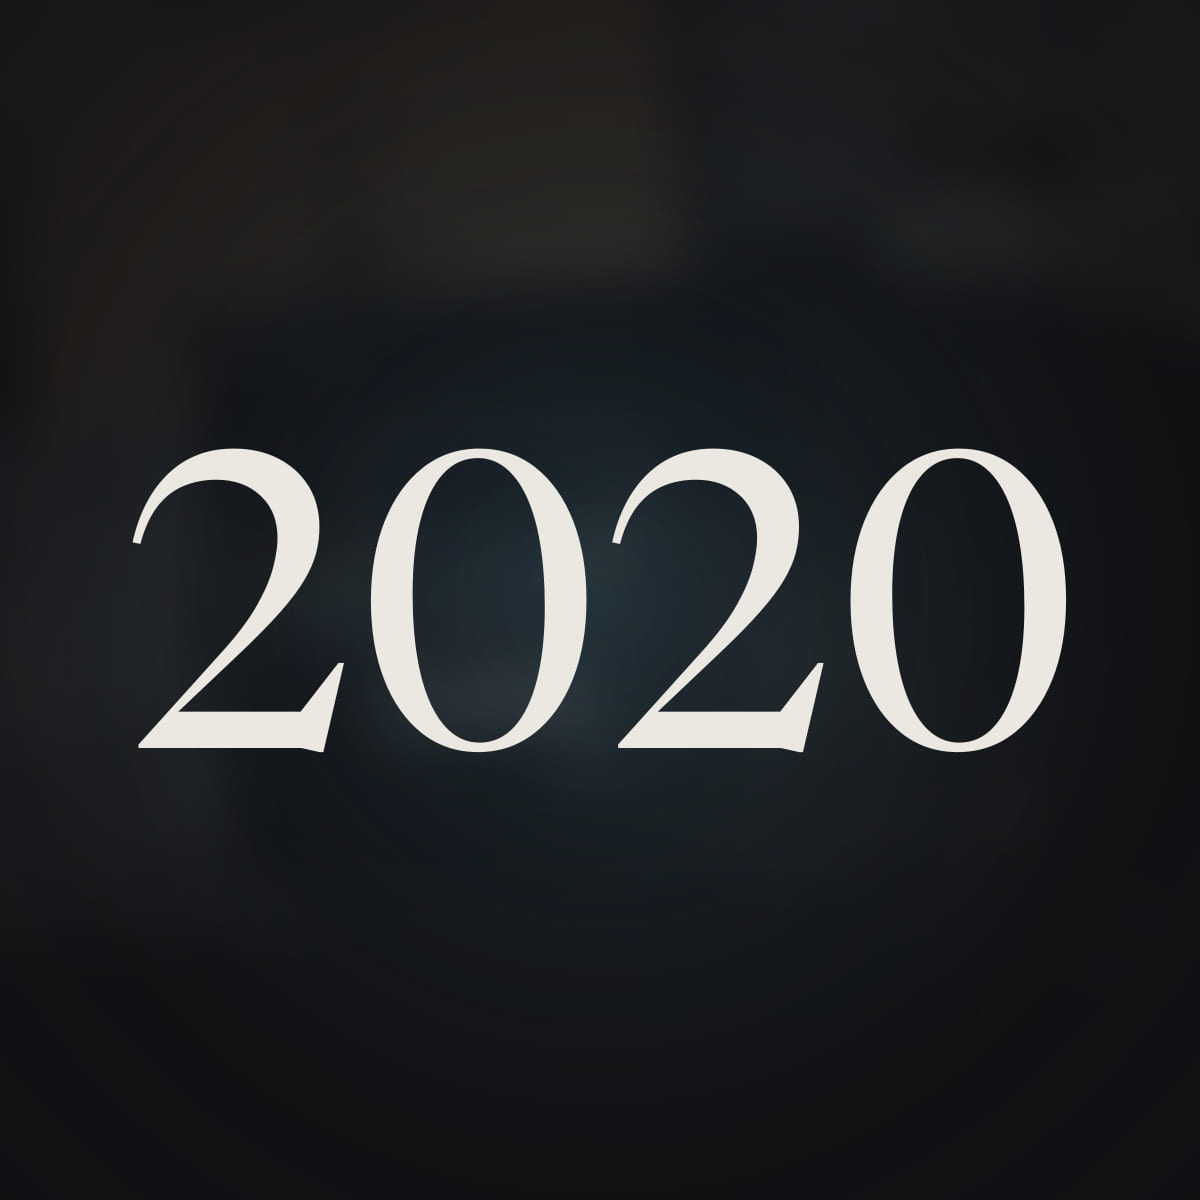
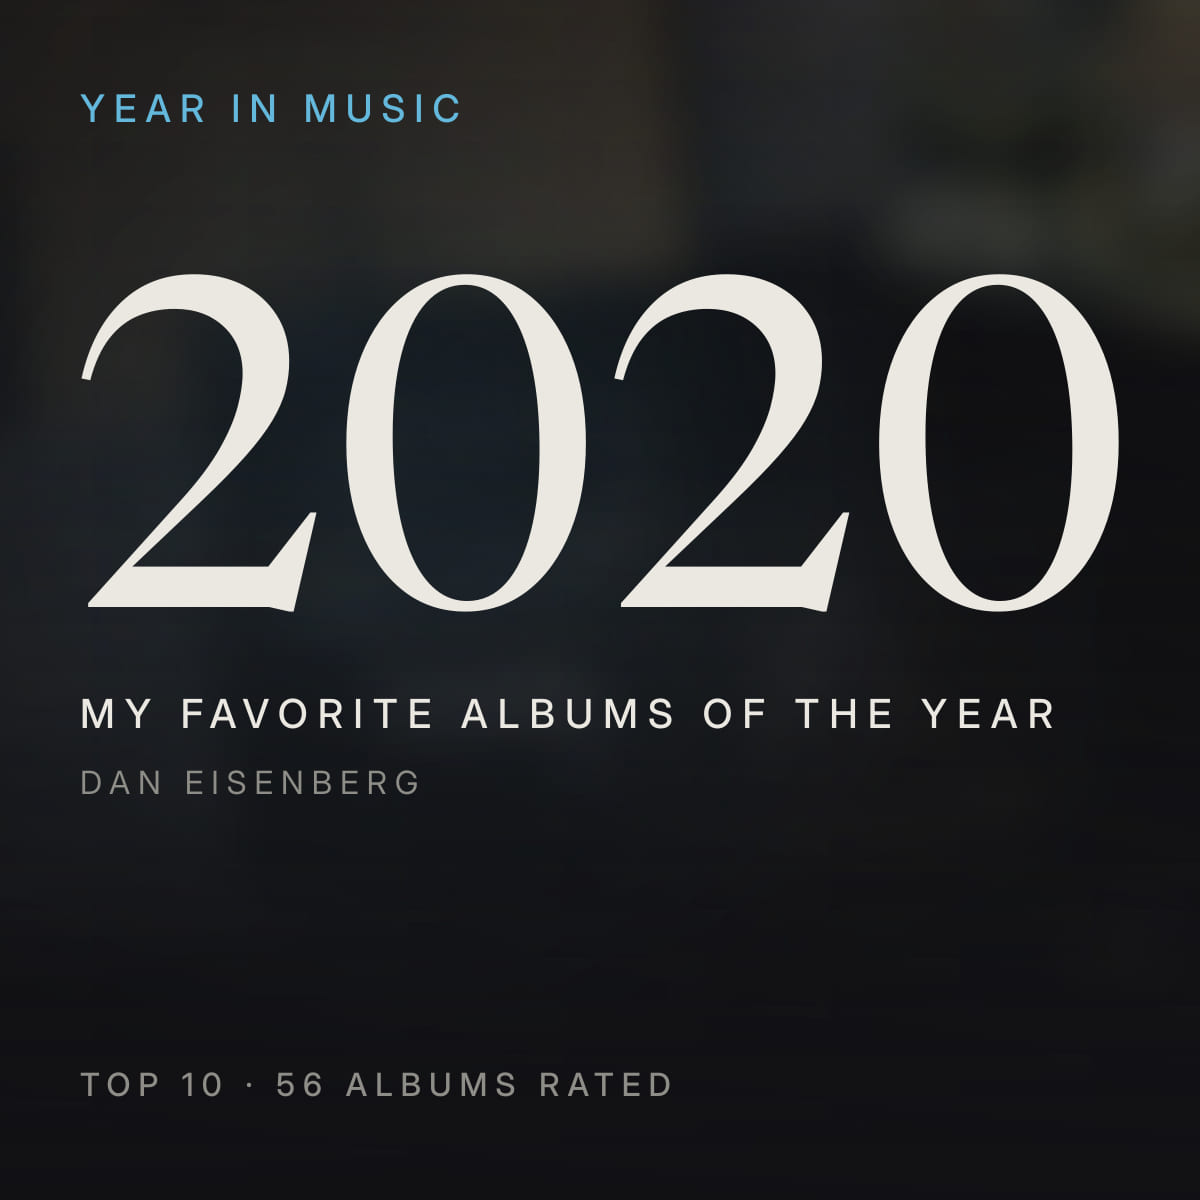
Recompose the square share cards with the full editorial content
WhatsApp renders a sent link as a large square card, not the tiny thumbnail
the composer preview suggests, so the year-only square cards were too sparse.
The square card now carries the landscape card's content (kicker, year,
subtitle, author, Top N · albums rated), recomposed for 1200×1200: the year
is fitted to the content width by its measured ink box and seated in the
upper-middle, the supporting lines are larger, and the meta line sits as a
footer. The landscape cards and the OG/Twitter mapping are unchanged.

diff --git a/scripts/generate-social/cli.ts b/scripts/generate-social/cli.ts
@@ -4,8 +4,10 @@
  * Renders the social-preview cards and records which exist in
  * src/lib/data/socialCards.json, so page metadata only ever points at a card that
  * was actually generated:
- *   static/social/{year}-square.jpg  1200×1200 og:image — WhatsApp shows it as a ~95px
- *                                    thumbnail, so it carries nothing but the year
+ *   static/social/{year}-square.jpg  1200×1200 og:image — WhatsApp previews it small in
+ *                                    the composer but renders the sent message as a
+ *                                    large square card, so it carries the full editorial
+ *                                    content, recomposed for the square
  *   static/social/{year}.jpg         1200×630 twitter:image / large previews
  *   static/social/stats(-square).jpg the same pair for /stats
  *
@@ -154,6 +156,7 @@ interface CardText {
 	kicker: string;
 	/** The large Newsreader line: a year or a year range. */
 	display: string;
+	/** Font size of the display line; on the square card, the cap of its fitted size. */
 	displaySize: number;
 	subtitle: string;
 	byline: string;
@@ -241,51 +244,57 @@ async function measureInk(text: string, size: number, sharp: SharpModule): Promi
 	};
 }
 
-/** One centred display line: `width` is the ink width to fit, `cy` the ink centre. */
-interface CentredLine {
-	text: string;
-	width: number;
-	cy: number;
-	fill?: string;
-}
+/**
+ * The square type scale. Larger than the landscape card's because WhatsApp shows the
+ * sent card at roughly the width of the chat, so the supporting lines must read there.
+ */
+const SQUARE_TYPE = { kicker: 38, subtitle: 40, byline: 32, meta: 32 } as const;
 
 /**
- * The square card is thumbnail-first: a vignetted, faintly accent-lit background and
- * nothing but huge numerals, each line sized to its target ink width and centred on its
- * ink box (not its em box) so the margins are real on every side.
+ * The square card recomposes the landscape design rather than cropping it: the kicker at
+ * the top, the display line fitted to the content width (capped at `displaySize`) and
+ * seated on a fixed line in the upper-middle, the subtitle and byline beneath it, and
+ * the meta line as a footer. The display line is positioned by its measured ink box, so
+ * its left edge sits exactly on the margin and its seat does not drift between a year
+ * and a year range.
  */
-async function squareOverlaySvg(
-	accent: string,
-	lines: CentredLine[],
-	sharp: SharpModule
-): Promise<Buffer> {
-	const { bg, ink } = TOKENS;
+async function squareOverlaySvg(card: CardText, sharp: SharpModule): Promise<Buffer> {
+	const { bg, ink, inkMuted } = TOKENS;
 	const probe = 200;
-	const texts: string[] = [];
-	for (const line of lines) {
-		const ref = await measureInk(line.text, probe, sharp);
-		const size = (probe * line.width) / ref.width;
-		const scale = size / probe;
-		const x = SQUARE / 2 - (ref.left + ref.width / 2) * scale;
-		const y = line.cy - (ref.top + ref.height / 2) * scale;
-		texts.push(
-			displayText(line.text, Math.round(x), Math.round(y), Math.round(size), line.fill ?? ink)
-		);
-	}
+	const ref = await measureInk(card.display, probe, sharp);
+	const size = Math.min(card.displaySize, (probe * (SQUARE - 2 * MARGIN)) / ref.width);
+	const scale = size / probe;
+	const displayX = MARGIN - ref.left * scale;
+	const displaySeat = Math.round(SQUARE * 0.51);
+	const displayY = displaySeat - (ref.top + ref.height) * scale;
+	const subtitleBaseline = displaySeat + 116;
+	const bylineBaseline = subtitleBaseline + 66;
+	const metaBaseline = SQUARE - MARGIN - 24;
 	return Buffer.from(`<svg xmlns="http://www.w3.org/2000/svg" width="${SQUARE}" height="${SQUARE}">
 	<defs>
-		<radialGradient id="glow" cx="0.5" cy="0.5" r="0.5">
-			<stop offset="0" stop-color="${accent}" stop-opacity="0.34"/>
-			<stop offset="1" stop-color="${accent}" stop-opacity="0"/>
+		<radialGradient id="glow" cx="0.3" cy="0.42" r="0.5">
+			<stop offset="0" stop-color="${card.accent}" stop-opacity="0.3"/>
+			<stop offset="1" stop-color="${card.accent}" stop-opacity="0"/>
 		</radialGradient>
-		<radialGradient id="vignette" cx="0.5" cy="0.5" r="0.72">
-			<stop offset="0" stop-color="${bg}" stop-opacity="0.5"/>
+		<linearGradient id="x" x1="0" y1="0" x2="1" y2="0">
+			<stop offset="0" stop-color="${bg}" stop-opacity="0.74"/>
+			<stop offset="0.5" stop-color="${bg}" stop-opacity="0.54"/>
+			<stop offset="1" stop-color="${bg}" stop-opacity="0.3"/>
+		</linearGradient>
+		<linearGradient id="y" x1="0" y1="0" x2="0" y2="1">
+			<stop offset="0" stop-color="${bg}" stop-opacity="0.3"/>
+			<stop offset="0.3" stop-color="${bg}" stop-opacity="0"/>
 			<stop offset="1" stop-color="${bg}" stop-opacity="0.92"/>
-		</radialGradient>
+		</linearGradient>
 	</defs>
 	<rect width="100%" height="100%" fill="url(#glow)"/>
-	<rect width="100%" height="100%" fill="url(#vignette)"/>
-	${texts.join('\n\t')}
+	<rect width="100%" height="100%" fill="url(#x)"/>
+	<rect width="100%" height="100%" fill="url(#y)"/>
+	${trackedLine(card.kicker, { x: MARGIN, y: MARGIN + 42, size: SQUARE_TYPE.kicker, weight: 500, fill: card.accent })}
+	${displayText(card.display, Math.round(displayX), Math.round(displayY), Math.round(size), ink)}
+	${trackedLine(card.subtitle, { x: MARGIN, y: subtitleBaseline, size: SQUARE_TYPE.subtitle, weight: 500, fill: ink })}
+	${trackedLine(card.byline, { x: MARGIN, y: bylineBaseline, size: SQUARE_TYPE.byline, weight: 400, fill: inkMuted })}
+	${trackedLine(card.meta, { x: MARGIN, y: metaBaseline, size: SQUARE_TYPE.meta, weight: 500, fill: inkMuted })}
 </svg>`);
 }
 
@@ -296,28 +305,36 @@ async function writeJpeg(pipeline: import('sharp').Sharp, file: string): Promise
 	return info.size;
 }
 
-/** A yearly card: the hero collage pushed well past recognisability, then the year. */
-async function renderYearCard(
-	year: YearData,
-	copy: SiteCopy,
-	sharp: typeof import('sharp').default
-): Promise<string> {
+/**
+ * The copy shared by both yearly cards. Top N counts ranked albums only: bonus albums
+ * never widen the ranking.
+ */
+function yearCardText(year: YearData, copy: SiteCopy, displaySize: number): CardText {
+	return {
+		accent: year.theme.accent,
+		kicker: copy.siteName,
+		display: String(year.year),
+		displaySize,
+		subtitle: copy.heroTitle,
+		byline: copy.author,
+		meta: `${copy.topN(year.rankedAlbums.length)} · ${year.totalAlbumsRated} ${copy.albumsRated}`
+	};
+}
+
+function heroCollagePath(year: YearData): string {
 	if (!year.heroCollage) {
 		throw new Error(
 			`${year.year}: no hero collage yet — run: npm run generate:hero -- ${year.year}`
 		);
 	}
-	const card: CardText = {
-		accent: year.theme.accent,
-		kicker: copy.siteName,
-		display: String(year.year),
-		displaySize: 340,
-		subtitle: copy.heroTitle,
-		byline: copy.author,
-		meta: `${copy.topN(year.rankedAlbums.length)} · ${year.totalAlbumsRated} ${copy.albumsRated}`
-	};
+	return path.join(projectRoot, 'static', year.heroCollage);
+}
+
+/** A yearly card: the hero collage pushed well past recognisability, then the year. */
+async function renderYearCard(year: YearData, copy: SiteCopy, sharp: SharpModule): Promise<string> {
+	const card = yearCardText(year, copy, 340);
 	const outFile = path.join(OUTPUT_DIR, `${year.year}.jpg`);
-	const pipeline = sharp(path.join(projectRoot, 'static', year.heroCollage))
+	const pipeline = sharp(heroCollagePath(year))
 		.resize(WIDTH, HEIGHT, { fit: 'cover' })
 		.blur(22)
 		.modulate({ saturation: 0.6, brightness: 0.88 })
@@ -329,20 +346,19 @@ async function renderYearCard(
 	return outFile;
 }
 
-/** The square yearly card: only the year, on the collage pushed to pure atmosphere. */
-async function renderYearSquare(year: YearData, sharp: SharpModule): Promise<string> {
-	if (!year.heroCollage) throw new Error(`${year.year}: no hero collage.`);
-	const overlay = await squareOverlaySvg(
-		year.theme.accent,
-		[{ text: String(year.year), width: SQUARE * 0.78, cy: SQUARE / 2 }],
-		sharp
-	);
+/** The square yearly card: the same editorial content, recomposed for 1200×1200. */
+async function renderYearSquare(
+	year: YearData,
+	copy: SiteCopy,
+	sharp: SharpModule
+): Promise<string> {
+	const card = yearCardText(year, copy, 470);
 	const outFile = path.join(OUTPUT_DIR, `${year.year}-square.jpg`);
-	const pipeline = sharp(path.join(projectRoot, 'static', year.heroCollage))
+	const pipeline = sharp(heroCollagePath(year))
 		.resize(SQUARE, SQUARE, { fit: 'cover' })
-		.blur(26)
-		.modulate({ saturation: 0.6, brightness: 0.85 })
-		.composite([{ input: overlay }]);
+		.blur(24)
+		.modulate({ saturation: 0.6, brightness: 0.88 })
+		.composite([{ input: await squareOverlaySvg(card, sharp) }]);
 	const size = await writeJpeg(pipeline, outFile);
 	console.log(
 		`${year.year}: square → ${path.relative(projectRoot, outFile)} (${Math.round(size / 1024)} KB)`
@@ -396,6 +412,23 @@ async function winnersMosaic(
 		.toBuffer();
 }
 
+/** The copy shared by both cross-year cards. */
+function statsCardText(
+	stats: AcrossYearsStatistics,
+	copy: SiteCopy,
+	displaySize: number
+): CardText {
+	return {
+		accent: TOKENS.accent,
+		kicker: copy.siteName,
+		display: `${stats.firstYear}–${stats.latestYear}`,
+		displaySize,
+		subtitle: copy.acrossTitle,
+		byline: copy.author,
+		meta: `${stats.totalAlbumsRated.toLocaleString('en-US')} ${copy.albumsRated} · ${stats.yearCount} ${copy.yearsLabel}`
+	};
+}
+
 /** The cross-year landscape card. */
 async function renderStatsCard(
 	stats: AcrossYearsStatistics,
@@ -403,16 +436,7 @@ async function renderStatsCard(
 	sharp: SharpModule
 ): Promise<string> {
 	const background = await winnersMosaic(stats, WIDTH, HEIGHT, sharp);
-
-	const card: CardText = {
-		accent: TOKENS.accent,
-		kicker: copy.siteName,
-		display: `${stats.firstYear}–${stats.latestYear}`,
-		displaySize: 184,
-		subtitle: copy.acrossTitle,
-		byline: copy.author,
-		meta: `${stats.totalAlbumsRated.toLocaleString('en-US')} ${copy.albumsRated} · ${stats.yearCount} ${copy.yearsLabel}`
-	};
+	const card = statsCardText(stats, copy, 184);
 	const outFile = path.join(OUTPUT_DIR, 'stats.jpg');
 	const size = await writeJpeg(sharp(background).composite([{ input: overlaySvg(card) }]), outFile);
 	console.log(
@@ -421,24 +445,19 @@ async function renderStatsCard(
 	return outFile;
 }
 
-/** The square cross-year card: first year, a dash, last year. */
+/** The square cross-year card: the year range fitted to the content width. */
 async function renderStatsSquare(
 	stats: AcrossYearsStatistics,
+	copy: SiteCopy,
 	sharp: SharpModule
 ): Promise<string> {
 	const background = await winnersMosaic(stats, SQUARE, SQUARE, sharp);
-	const yearWidth = SQUARE * 0.54;
-	const overlay = await squareOverlaySvg(
-		TOKENS.accent,
-		[
-			{ text: String(stats.firstYear), width: yearWidth, cy: SQUARE * 0.27 },
-			{ text: '—', width: SQUARE * 0.2, cy: SQUARE / 2 },
-			{ text: String(stats.latestYear), width: yearWidth, cy: SQUARE * 0.73 }
-		],
-		sharp
-	);
+	const card = statsCardText(stats, copy, 470);
 	const outFile = path.join(OUTPUT_DIR, 'stats-square.jpg');
-	const size = await writeJpeg(sharp(background).composite([{ input: overlay }]), outFile);
+	const size = await writeJpeg(
+		sharp(background).composite([{ input: await squareOverlaySvg(card, sharp) }]),
+		outFile
+	);
 	console.log(
 		`stats: square → ${path.relative(projectRoot, outFile)} (${Math.round(size / 1024)} KB)`
 	);
@@ -487,10 +506,10 @@ async function main() {
 	if (target && selected.length === 0) throw new Error(`${target} is not a published year.`);
 
 	for (const year of [...selected].sort((a, b) => a.year - b.year)) {
-		await renderYearSquare(year, sharp);
+		await renderYearSquare(year, copy, sharp);
 		await renderYearCard(year, copy, sharp);
 	}
-	await renderStatsSquare(stats, sharp);
+	await renderStatsSquare(stats, copy, sharp);
 	await renderStatsCard(stats, copy, sharp);
 	console.log(`manifest → ${await writeManifest(years)}`);
 }

diff --git a/src/lib/seo.ts b/src/lib/seo.ts
@@ -14,8 +14,8 @@ const OG_LOCALE: Record<Locale, string> = { 'pt-BR': 'pt_BR', en: 'en_US' };
 
 /**
  * Sizes of the generated share cards (`npm run generate:social`). The square card is the
- * Open Graph image (WhatsApp shows it as a tiny thumbnail), the landscape card serves
- * Twitter and other large-preview contexts.
+ * Open Graph image (WhatsApp renders a sent link as a large square card), the landscape
+ * card serves Twitter and other large-preview contexts.
  */
 export const SOCIAL_CARD = {
 	square: { width: 1200, height: 1200 },

diff --git a/CLAUDE.md b/CLAUDE.md
@@ -387,10 +387,11 @@ The playlist section is part of the publication, not an afterthought.
 
 Every year page and `/stats` has two share cards in `static/social/`, rendered by
 `npm run generate:social` from the production data (year, Top N, albums rated, accent,
-cross-year totals) and the hero collages: a 1200×1200 square for `og:image` that shows
-only the year, because WhatsApp renders it as a ~95px thumbnail, and a 1200×630
-landscape for `twitter:image` and large previews. Cards never reveal the ranking or the
-winner.
+cross-year totals) and the hero collages: a 1200×1200 square for `og:image`, because
+WhatsApp renders a sent link as a large square card, and a 1200×630 landscape for
+`twitter:image` and large previews. Both carry the same editorial content (kicker, year,
+subtitle, author, Top N · albums rated), each composed for its own format. Cards never
+reveal the ranking or the winner.
 
 Open Graph and Twitter metadata is English-first and uses these cards. A `?lang=pt-BR`
 share link gets the same preview, and `?lang` never appears in canonical or `og:url`.
